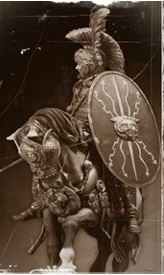
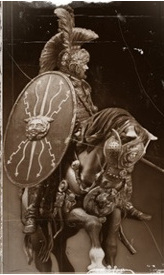
t

diff --git a/css/main.css b/css/main.css
@@ -58,7 +58,7 @@ input[type="button"]{
     background:url('../img/texture_marbre.jpg');
 }
 
-#card_0, #card_1, #card_2{
+#card_0, #card_1, #card_2, #card_ennemi{
     border:1px solid black;
     border-radius: 15px;
     width:200px;
@@ -73,11 +73,12 @@ input[type="button"]{
 }
 
 #jauge{
-    width:400px;
+    width:407px;
     height: 30px;
     border:1px solid black;
     border-radius: 5px;
     background-color: gray;
+    margin:3px;
 }
 #valeur_jauge{
     width:10%;
@@ -98,4 +99,225 @@ input[type="button"]{
     position: relative;
     top: -28px;
     font-weight: bold;
+}
+
+.flip{
+    -moz-transform: scaleX(-1);
+    -o-transform: scaleX(-1);
+    -webkit-transform: scaleX(-1);
+    transform: scaleX(-1);
+    filter: FlipH;
+    -ms-filter: "FlipH";
+}
+
+.click_attack{
+    background: url('../img/click_attack.png') no-repeat 10px #4c3621;
+    cursor:pointer;
+}
+.click_defense{
+    background: url('../img/click_defense.png') no-repeat 10px #4c3621;
+    cursor:pointer;
+}
+
+
+
+@-webkit-keyframes blink {
+    0% {
+        opacity:1
+    }
+    50% {
+        opacity:0
+    }
+    100% {
+        opacity:1
+    }
+}
+@-moz-keyframes blink {
+    0% {
+        opacity:1
+    }
+    50% {
+        opacity:0
+    }
+    100% {
+        opacity:1
+    }
+}
+@-webkit-keyframes fadefromlow {
+    0% {
+        opacity:0.3
+    }
+    50% {
+        opacity:1
+    }
+    100% {
+        opacity:0.3
+    }
+}
+@-moz-keyframes fadefromlow {
+    0% {
+        opacity:0.3
+    }
+    50% {
+        opacity:1
+    }
+    100% {
+        opacity:0.3
+    }
+}
+@-webkit-keyframes fadefromhight {
+    0% {
+        opacity:1
+    }
+    50% {
+        opacity:0.3
+    }
+    100% {
+        opacity:1
+    }
+}
+@-moz-keyframes fadefromhight {
+    0% {
+        opacity:1
+    }
+    50% {
+        opacity:0.3
+    }
+    100% {
+        opacity:1
+    }
+}
+@keyframes fadefromhight {
+    0% {
+        opacity:1
+    }
+    50% {
+        opacity:0.3
+    }
+    100% {
+        opacity:1
+    }
+}
+@-moz-keyframes grow {
+    0% {
+        -moz-transform:scale(0.9);
+        transform:scale(0.9);
+        opacity:0.2
+    }
+    50% {
+        -moz-transform:scale(1);
+        transform:scale(1);
+        opacity:1
+    }
+    100% {
+        -moz-transform:scale(0.9);
+        transform:scale(0.9);
+        opacity:0.2
+    }
+}
+@-webkit-keyframes grow {
+    0% {
+        -webkit-transform:scale(0.9);
+        transform:scale(0.9);
+        opacity:0.2
+    }
+    50% {
+        -webkit-transform:scale(1);
+        transform:scale(1);
+        opacity:1
+    }
+    100% {
+        -webkit-transform:scale(0.9);
+        transform:scale(0.9);
+        opacity:0.2
+    }
+}
+@keyframes grow {
+    0% {
+        transform:scale(0.9);
+        opacity:0.2
+    }
+    50% {
+        transform:scale(1);
+        opacity:1
+    }
+    100% {
+        transform:scale(0.9);
+        opacity:0.2
+    }
+}
+@-webkit-keyframes fadeIn {
+    from {
+        opacity:0
+    }
+    to {
+        opacity:1
+    }
+}
+@-moz-keyframes fadeIn {
+    from {
+        opacity:0
+    }
+    to {
+        opacity:1
+    }
+}
+@keyframes fadeIn {
+    from {
+        opacity:0
+    }
+    to {
+        opacity:1
+    }
+}
+.blink {
+    -webkit-transition:all 1s ease-in-out;
+    -moz-transition:all 1s ease-in-out;
+    -o-transition:all 1s ease-in-out;
+    -ms-transition:all 1s ease-in-out;
+    transition:all 1s ease-in-out;
+    -webkit-animation-direction:normal;
+    -webkit-animation-duration:2s;
+    -webkit-animation-iteration-count:infinite;
+    -webkit-animation-name:blink;
+    -webkit-animation-timing-function:ease-in-out;
+    -moz-animation-direction:normal;
+    -moz-animation-duration:2s;
+    -moz-animation-iteration-count:infinite;
+    -moz-animation-name:blink;
+    -moz-animation-timing-function:ease-in-out
+}
+.medium-blink {
+    -webkit-transition:all 0.05s ease-in-out;
+    -moz-transition:all 0.05s ease-in-out;
+    -o-transition:all 0.05s ease-in-out;
+    -ms-transition:all 0.05s ease-in-out;
+    transition:all 0.05s ease-in-out;
+    -webkit-animation-direction:normal;
+    -webkit-animation-duration:0.3s;
+    -webkit-animation-iteration-count:infinite;
+    -webkit-animation-name:blink;
+    -webkit-animation-timing-function:ease-in-out;
+    -moz-animation-direction:normal;
+    -moz-animation-duration:0.3s;
+    -moz-animation-iteration-count:infinite;
+    -moz-animation-name:blink;
+    -moz-animation-timing-function:ease-in-out
+}
+.fast-blink {
+    -webkit-transition:all 0.05s ease-in-out;
+    -moz-transition:all 0.05s ease-in-out;
+    -o-transition:all 0.05s ease-in-out;
+    -ms-transition:all 0.05s ease-in-out;
+    transition:all 0.05s ease-in-out;
+    -webkit-animation-direction:normal;
+    -webkit-animation-duration:0.1s;
+    -webkit-animation-iteration-count:infinite;
+    -webkit-animation-name:blink;
+    -webkit-animation-timing-function:ease-in-out;
+    -moz-animation-direction:normal;
+    -moz-animation-duration:0.1s;
+    -moz-animation-iteration-count:infinite;
+    -moz-animation-name:blink;
+    -moz-animation-timing-function:ease-in-out
 }

diff --git a/index.html b/index.html
@@ -54,7 +54,7 @@
 
         <div id="ret" class="content"></div>
 
-        <table id="cards"  class="content">
+        <table id="cards"  class="content" border=0>
             <tr>
                 <td name="structure" valign="top" rowspan="2">
                     <table id="card_0"  cellspacing=0 align=center>
@@ -63,7 +63,7 @@
                         </tr>
                         <tr bgcolor="black">
                             <td class="column"  rowspan="2"></td>
-                            <td><img class="picture" src="img/legionnaire.jpg" /></td>
+                            <td class="click_defense"><img id="img_player_1" class="picture" src="img/legionnaire.jpg" /></td>
                             <td class="column"  rowspan="2"></td>
                         </tr>
                         <tr>
@@ -94,6 +94,26 @@
                         <tr><td colspan=3  class="bottom">Arme</td></tr>
                     </table>
                 </td>
+                <td name="structure" valign="top" rowspan="2">
+                    <table id="card_ennemi"  cellspacing=0 align=center>
+                        <tr>
+                            <td colspan=3 class="top">Legionnaire</td>
+                        </tr>
+                        <tr bgcolor="black">
+                            <td class="column"  rowspan="2"></td>
+                            <td class="click_attack"><img id="img_ennemi" class="picture flip blink" src="img/legionnaire.jpg" /></td>
+                            <td class="column"  rowspan="2"></td>
+                        </tr>
+                        <tr>
+                            <td class="VDA">
+                                <div class="PV">VIE:<span style="float:right">0</span></div>
+                                <div class="FO">DEGAT:<span style="float:right">0</span></div>
+                                <div class="ARMOR">ARMURE:<span style="float:right">0</span></div>
+                            </td>
+                        </tr>
+                        <tr><td colspan=3  class="bottom">Biilius Lajiujus Micor </td></tr>
+                    </table>
+                </td>
             </tr>
 
             <tr><td name="structure" valign="top">
@@ -115,14 +135,13 @@
                     </table>
                 </td>
             </tr>
+
         </table>
 
 
 
 <div id="combat" class="content">
-<div>
-    <img src="img/legionnaire.jpg"  id="ennemi" />
-</div>
+
     <div id="jauge">
         <div id="valeur_jauge" class="attack"></div>
         <div id="label_jauge"></div>

diff --git a/js/dom.js b/js/dom.js
@@ -61,14 +61,33 @@ document.getElementById("title_button").onclick = function (e) {
 document.getElementById("start_button").onclick = function(){
     if(player_1){
         display_contents("none");
+        document.getElementById("cards").style.display = "block";
+        document.getElementById('combat').style.display='block';
+        document.getElementById("card_ennemi").style.display = "block";
+        document.getElementById("card_"+type_armor).style.display = "none";
+        document.getElementById("card_"+type_weapon).style.display = "none";
+
         player_1.fight(fight_attack);
     }
 }
 
-document.getElementById("ennemi").onclick = function(){
+document.getElementById("img_ennemi").onclick = function(){
     if(player_1){
         player_1.click_fight();
+
+        document.getElementById('img_ennemi').classList.remove('blink');
+        document.getElementById('img_player_1').classList.add('blink');
         player_1.fight(fight_defense);
+    }
+}
+
+document.getElementById("img_player_1").onclick = function(){
+    if(player_1){
+        player_1.click_fight();
+
+        document.getElementById('img_ennemi').classList.add('blink');
+        document.getElementById('img_player_1').classList.remove('blink');
+        player_1.fight(fight_attack);
     }
 }
 

diff --git a/js/class_BattleBarFighter.js b/js/class_BattleBarFighter.js
@@ -320,9 +320,7 @@ function BattleBarFighter(codebar) {
         if(this.type != type_character){
             return false;
         }
-        document.getElementById('scan').style.display="none";
-        document.getElementById('content_player_1').style.display="none";
-        document.getElementById('combat').style.display='block';
+
         var type_use = this.FO;
         if(type_fight==fight_attack){
             document.getElementById("valeur_jauge").className="attack";
@@ -356,7 +354,7 @@ function BattleBarFighter(codebar) {
         clearInterval(interval);
         interval = null;
 
-        alert('res : '+result_click_fight);
+        //alert('res : '+result_click_fight);
     }
 
 
